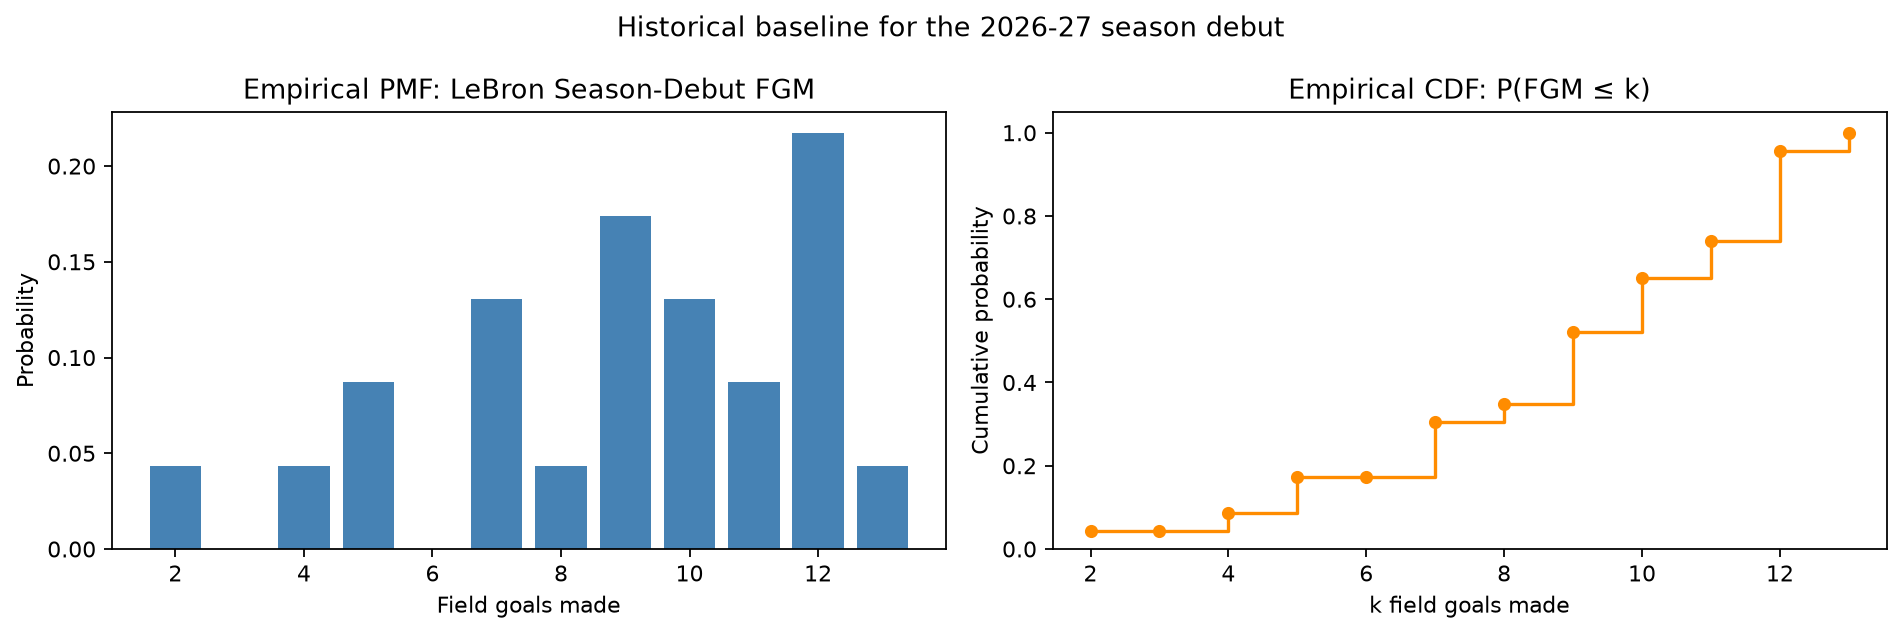
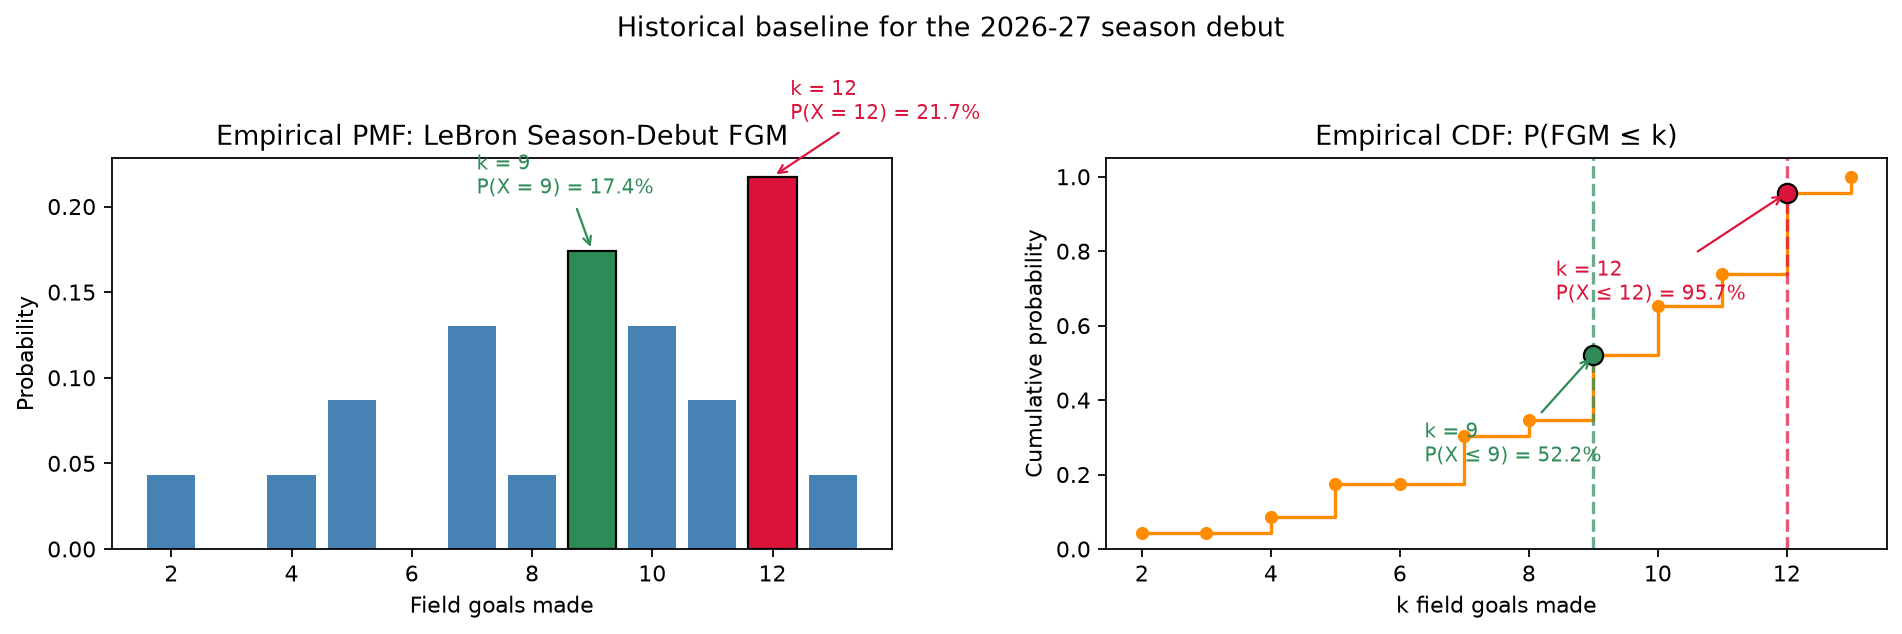
Highlight median baseline and modal outcome

diff --git a/python/episode_01_cdf_pmf.py b/python/episode_01_cdf_pmf.py
@@ -97,8 +97,20 @@ def empirical_distribution(fgm: pd.Series) -> tuple[pd.Series, pd.Series]:
 def plot_distribution(pmf: pd.Series, cdf: pd.Series) -> None:
     """Plot point probabilities and cumulative probabilities side by side."""
     figure, axes = plt.subplots(1, 2, figsize=(12, 4))
+    highlights = {9: "seagreen", 12: "crimson"}
 
     axes[0].bar(pmf.index, pmf.values, color="steelblue")
+    for k, color in highlights.items():
+        axes[0].bar(k, pmf.loc[k], color=color, edgecolor="black", zorder=3)
+        axes[0].annotate(
+            f"k = {k}\nP(X = {k}) = {pmf.loc[k]:.1%}",
+            xy=(k, pmf.loc[k]),
+            xytext=(-52 if k == 9 else 8, 26),
+            textcoords="offset points",
+            arrowprops={"arrowstyle": "->", "color": color},
+            color=color,
+            fontsize=9,
+        )
     axes[0].set(
         title="Empirical PMF: LeBron Season-Debut FGM",
         xlabel="Field goals made",
@@ -107,6 +119,18 @@ def plot_distribution(pmf: pd.Series, cdf: pd.Series) -> None:
 
     axes[1].step(cdf.index, cdf.values, where="post", color="darkorange")
     axes[1].scatter(cdf.index, cdf.values, color="darkorange", s=24)
+    for k, color in highlights.items():
+        axes[1].axvline(k, color=color, linestyle="--", alpha=0.7)
+        axes[1].scatter(k, cdf.loc[k], color=color, edgecolor="black", s=75, zorder=3)
+        axes[1].annotate(
+            f"k = {k}\nP(X ≤ {k}) = {cdf.loc[k]:.1%}",
+            xy=(k, cdf.loc[k]),
+            xytext=(-76 if k == 9 else -104, -48),
+            textcoords="offset points",
+            arrowprops={"arrowstyle": "->", "color": color},
+            color=color,
+            fontsize=9,
+        )
     axes[1].set(
         title="Empirical CDF: P(FGM ≤ k)",
         xlabel="k field goals made",
@@ -125,18 +149,22 @@ def main() -> None:
     opening_games = load_or_fetch_data()
     pmf, cdf = empirical_distribution(opening_games["fgm"])
 
-    threshold = 8
+    baseline_k = 9
     mean_fgm = opening_games["fgm"].mean()
     mode_fgm = int(pmf.idxmax())
-    probability_at_most_threshold = opening_games["fgm"].le(threshold).mean()
+    probability_at_most_baseline = cdf.loc[baseline_k]
+    probability_exactly_mode = pmf.loc[mode_fgm]
+    probability_at_most_mode = cdf.loc[mode_fgm]
 
     print(opening_games.to_string(index=False))
     print(f"\nEmpirical mean FGM: {mean_fgm:.2f}")
     print(f"Empirical mode FGM: {mode_fgm}")
     print(
-        f"P(FGM <= {threshold}) from the empirical CDF: "
-        f"{probability_at_most_threshold:.1%}"
+        f"P(FGM <= {baseline_k}) from the empirical CDF: "
+        f"{probability_at_most_baseline:.1%}"
     )
+    print(f"P(FGM = {mode_fgm}) from the empirical PMF: {probability_exactly_mode:.1%}")
+    print(f"P(FGM <= {mode_fgm}) from the empirical CDF: {probability_at_most_mode:.1%}")
 
     plot_distribution(pmf, cdf)
 

diff --git a/subtitles/episode-01-script.md b/subtitles/episode-01-script.md
@@ -30,9 +30,9 @@ After the loop, the rows become a new DataFrame. We sort it chronologically and 
 
 We are ready to estimate the empirical distribution. The distribution function receives the FGM series. First, we create support from the minimum to maximum count. This includes every integer, even if one was never observed. Value counts tells us how often each FGM occurred. With normalize set to true, frequencies become probabilities. We sort the values and reindex them onto the full support. Unobserved counts receive probability zero, not missing values.
 
-The PMF is complete, so the CDF is its cumulative sum. Each CDF value includes that count and everything below it. Next, we calculate three summaries for interpretation. The mean gives the historical average season-debut FGM. The PMF mode gives the most frequently observed count. The CDF estimates the probability of eight or fewer makes. These are empirical summaries, not a deterministic prediction.
+The PMF is complete, so the CDF is its cumulative sum. Each CDF value includes that count and everything below it. Next, we calculate three summaries for interpretation. The mean gives the historical average season-debut FGM. The PMF mode gives the most frequently observed count. The CDF shows a 52.2 percent chance of nine or fewer makes. These are empirical summaries, not a deterministic prediction.
 
-Finally, Matplotlib creates two side-by-side charts. The left chart uses bars to display the PMF. The right chart uses steps to display the CDF. Read the left chart as probability of exactly each count. Read the right chart as probability up to each count.
+Finally, Matplotlib creates two charts and highlights k equals 9 and 12. Nine is the median baseline, while twelve is the PMF mode. At k equals 9, the CDF is 52.2 percent. At k equals 12, the CDF is 95.7 percent. The PMF at twelve is 21.7 percent, the largest exact probability.
 
 ## 06:30-07:00 — Closing
 

diff --git a/episode-01-outline.md b/episode-01-outline.md
@@ -38,8 +38,8 @@ The code uses seasons 2003-04 through 2025-26. It deliberately selects LeBron's 
 - Cache the 23-row dataset locally.
 - Estimate the PMF with normalized value counts.
 - Estimate the CDF with a cumulative sum of the PMF.
-- Report the empirical mean, mode, and $P(X \leq 8)$.
-- Plot the PMF and CDF side by side.
+- Report the empirical mean, median, mode, $P(X \leq 9)$, and $P(X = 12)$.
+- Plot the PMF and CDF side by side, highlighting $k=9$ and $k=12$.
 - Explain why this is a descriptive baseline rather than a production forecast.
 
 ## Closing message
